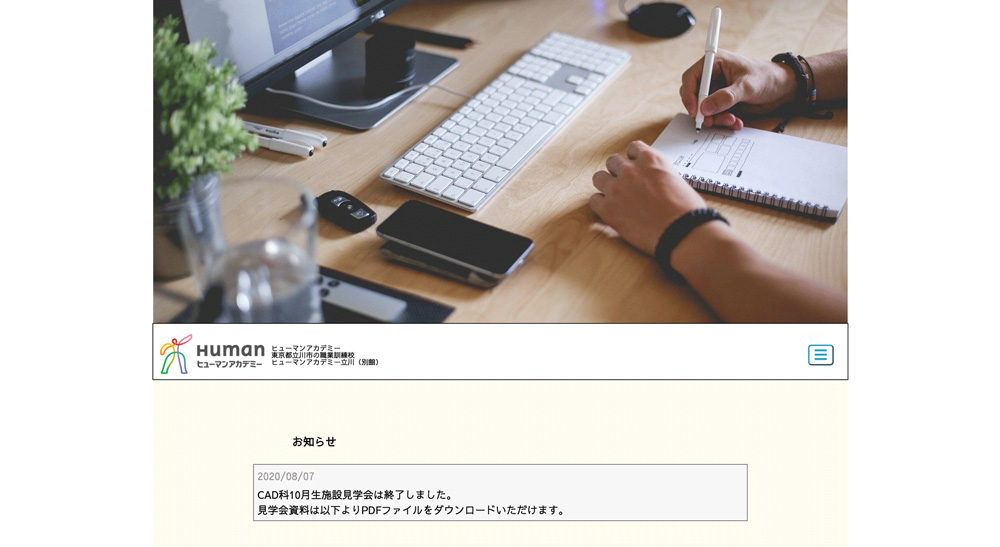
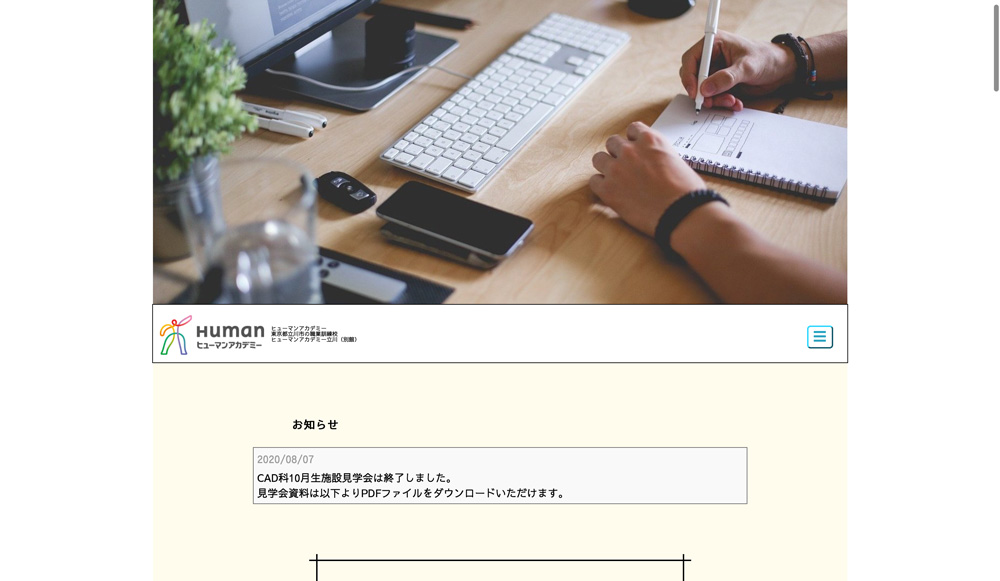
Add files via upload

diff --git a/works.html b/works.html
@@ -22,7 +22,7 @@
 <nav>
   <div class="drawer">
   <!-- drawer ここから-->
-    <h1><img src="images/mylogo-min.png" alt="ヘッダーの佐藤翼自身のロゴマークです。"></h1>
+  <h1><img src="images/mylogo-min.png" alt="ヘッダーの佐藤翼自身のロゴマークです。"></h1>
     <!-- ハンバーガーメニュー部分 -->
     <div class="nav-button">
     <span></span>
@@ -46,7 +46,7 @@
 <!-- 中央にロゴを設置したナビゲーションバー終了 -->
 </header>
 
-<div class="content works-page">
+<div class="content">
 <!-- コンテンツ開始 -->
 <div class="page-title">
 <!-- ページ見出し開始 -->
@@ -75,47 +75,26 @@
 <div id="container" class="grid">
 <!-- グリッドコンテンツ開始 -->
   <div class="grid-item food">
-  <a class="js-modal-open" href="" data-target="modal-ichiko"><img src="images/ichiko.jpg" alt="制作した「いち娘」ページのスクリーンショットです。"></a></div>
+  <a href="https://ichiko.netlify.app" target="_blank"><img src="images/ichiko.jpg" alt="制作した「いち娘」ページのスクリーンショットです。">
+  </a>
+  <p>仮想サイト<br>
+  朝摘み苺 いち娘</p>
+  </div>
   <div class="grid-item school">
-  <a class="js-modal-open" href="" data-target="modal-human"><img src="images/human.jpg" alt="制作した「ヒューマンアカデミー立川校」ページのスクリーンショットです。"></a>
+  <a href="https://human-tachikawa.netlify.app/" target="_blank"><img src="images/human.jpg" alt="制作した「ヒューマンアカデミー立川校」ページのスクリーンショットです。">
+  </a>
+  <p>リデザイン<br>
+  ヒューマンアカデミー立川校</p>
   </div>
   <div class="grid-item food">
-  <a class="js-modal-open" href="" data-target="modal-cocoro"><img src="images/cocoro.jpg" alt="制作した「パン屋cocoro」ページのスクリーンショットです。"></a></div>
+  <a href="" data-target="modal-cocoro"><img src="images/cocoro.jpg" alt="制作した「パン屋cocoro」ページのスクリーンショットです。">
+  </a>
+  <p>仮想サイト<br>
+  パン屋 Cocoro</p>
+  </div>
  <!-- グリッドコンテンツ終了 -->
 </div>
 
-<!-- モーダル内のコンテンツここから -->
-<div id="modal-ichiko" class="modal js-modal">
-  <div class="modal__bg js-modal-close"></div>
-  <div class="modal__content">
-  <a class="js-modal-close" href=""><i class="fas fa-times"></i></a>
-  <div class="modal-ex">
-  <a href=""><img src="images/ichiko.jpg" alt="制作した「いち娘」ページのスクリーンショットです。"></a>
-  <h4><a href="">朝摘み苺 いち娘</a></h4>
-  <p>Design / Adobe XD / Photoshop / Brackets / HTML,CSS</p>
-  <ul class="process">
-  <li><a href="frame/ichiko.jpg" target="_blank">ワイヤーフレーム</a></li>
-  </ul>
-  <p>高価なブランド苺という設定の為、品の高い配色やフォントを使用することを意識
-  </p>
-  </div><!-- mordal-ex -->
-  </div><!-- modal__content -->
-</div><!-- js-modal -->
-
-<div id="modal-human" class="modal js-modal">
-  <div class="modal__bg js-modal-close"></div>
-  <div class="modal__content">
-  <a class="js-modal-close" href=""><i class="fas fa-times"></i></a>
-  <div class="modal-ex">
-  <a href=""><img src="images/human.jpg" alt="制作した「ヒューマンアカデミー立川校」リデザインページのスクリーンショットです。"></a>
-  <h4>ヒューマンアカデミー立川校 リデザイン</h4>
-    <p>2つ目のモーダルコンテンツを入れます。モーダルウィンドウを閉じる場合は下の「閉じる」をクリックするか、背景の黒い部分をクリックしても閉じることができます。
-    </p>
-  </div><!-- modal-ex -->
-  </div><!-- modal__content -->
-</div><!-- js-modal -->
-
-<!-- モーダル内のコンテンツここまで -->
 <!-- コンテンツ終了 -->
 </div>
 <footer>

diff --git a/index.html b/index.html
@@ -47,7 +47,7 @@
 <!-- 中央にロゴを設置したナビゲーションバー終了 -->
 </header>
 
-<div class="home-content">
+<div class="content">
 <div class="first-view">
 <!-- ファーストビューここから -->
 <svg class="mask" viewBox="0 0 1210 685" id="move">
@@ -117,7 +117,7 @@ Webサイトのデザイン、制作を主に活動中。<br>
 <!-- ワークフロー開始 -->
 <h2>Work Flow<span>制作の流れ</span></h2>
 <p class="hitokoto">遠方の方とのヒヤリングに関しましては電話、もしくはZoomなどのビデオ通話を使用して打ち合わせを考えております。<br>
-価格はサイトの種類やページ数によって異なりますが、コーディングのみの1ページ1万円のものからあり、予算に応じて相談可能です。</p>
+サイトの種類やページ数によって価格は異なりますが、予算に応じて相談可能です。</p>
 <div class="icons">
 <!-- アイコン並びここから -->
 <div class="icons-in"><i class="far fa-user"></i>
@@ -156,7 +156,7 @@ Webサイトのデザイン、制作を主に活動中。<br>
 </div>
 <div class="gaiyou-image">
 <!-- 概要イメージここから -->
-<img src="images/laptop.jpg" alt="PCの画面が浮かび上がっている画像です。">
+<img src="images/tsubasa.png" alt="佐藤翼自身の顔写真です。">
 <!-- 概要イメージここまで -->
 </div>
 <!-- 概要終了 -->
@@ -165,7 +165,7 @@ Webサイトのデザイン、制作を主に活動中。<br>
 <!-- コンテンツ終了 -->
 </div>
 
-<footer class="footer home-footer">
+<footer class="footer">
 <!-- フッター開始 -->
 <p>バナー制作からサイト制作、ロゴマークや各種プロモーション活動の支援などWeb制作を中心に活動中、<br>
 その他グラフィックデザインなども行っております。<br>
@@ -183,7 +183,7 @@ Webサイトのデザイン、制作を主に活動中。<br>
 
 <img src="images/mylogo.png" alt="佐藤翼自身のロゴマークです。">
 <hr>
-<small class="home-small">&copy;Tsubasa Sato 2020</small>
+<small>&copy;Tsubasa Sato 2020</small>
 <!-- フッター終了 -->
 </footer>
 

diff --git a/style/style.css b/style/style.css
@@ -152,75 +152,11 @@ header ul li a:hover {
   width: 100%;
 }
 
-/*モーダルウィンドウの設定*/
-.modal{
-  display: none;
-  height: 100%;
-  position: fixed;
-  top: 0;
-  width: 100%;
-  overflow: scroll;
-  z-index: 2
+.grid-item p {
+  text-align: center;
+  font-size: 14px;
+  margin: 0;
 }
-.modal__bg{
-  background: rgba(0,0,0,0.6);
-  height: 100%;
-  position: absolute;
-  width: 100%;
-  position: fixed;
-  z-index: 2
-}
-.modal__content{
-  background: #fff;
-  left: 50%;
-  padding: 40px;
-  margin: 5% 0;
-  position: absolute;
-  top: 50%;
-  transform: translate(-50%,-50%);
-  width: 80%;
-  z-index: 3
-}
-
-.modal__content h4 {
-  font-size: 16px;
-}
-
-.modal__content h4 a {
-  color: #4A4645;
-  text-decoration: none
-}
-
-.modal__content h4 a:hover {
-  text-decoration: underline
-}
-
-.modal__content .modal-ex {
-  width: 70%;
-  margin: auto
-}
-
-.modal__content .modal-ex img {
-  width: 100%;
-  border: solid 1px #eaeaea;
-}
-
-.modal-ex .process {
-  list-style: none;
-  display: flex;
-  justify-content: space-around
-}
-
-.modal-ex .process li a {
-  text-decoration: none;
-  color: #539982;
-}
-
-.js-modal-close:visited {
-  color: #808080
-}
-
-
 
 /*フッターの設定*/
 footer {
@@ -229,11 +165,6 @@ footer {
   border-top: 1.5px dashed #539982;
   background-color: #ebebe8;
   position: relative;
-}
-
-.home-footer {
-  width: 96%;
-  margin: auto;
 }
 
 footer:before {
@@ -314,16 +245,8 @@ footer small {
   display: block
 }
 
-.home-small {
-  background-color: #fff;
-}
-
 /* indexの設定 */
-.home-content {
-  margin: 0 2%;
-  background-color: #ebebe8;
-  overflow: hidden;
-}
+
 
 /*ファーストビューの設定*/
 .first-view {
@@ -387,7 +310,7 @@ footer small {
   display: flex;
   align-items: center;
   justify-content: space-around;
-  height: 90vh
+  height: 80vh
 }
 
 .gaiyou-reverse {
@@ -414,7 +337,12 @@ footer small {
 }
 
 .gaiyou .gaiyou-image img {
-  width: 35vw;
+  width: 40vw;
+  max-width: 450px;
+}
+
+.gaiyou:nth-child(4) .gaiyou-image img {
+  border-radius: 50%;
 }
 
 .gaiyou .gaiyou-button {

diff --git a/script/script.js b/script/script.js
@@ -59,20 +59,5 @@ $('.nav-button').on('click',function(){
   }
 });
 
-//モーダルウィンドウの設定
-$('.js-modal-open').each(function(){
-        $(this).on('click',function(){
-           $('body').css('overflow','hidden');
-            var target = $(this).data('target');
-            var modal = document.getElementById(target);
-            $(modal).fadeIn();
-            return false;
-        });
-    });
-    $('.js-modal-close').on('click',function(){
-        $('.js-modal').fadeOut();
-        $('body').css('overflow','scroll');
-        return false;
-    });
 
 });
